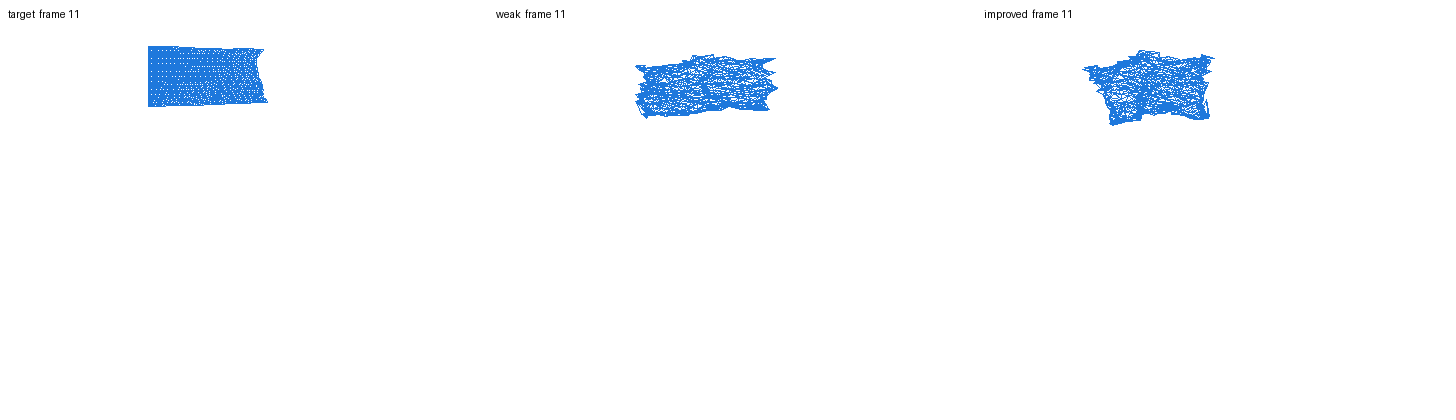
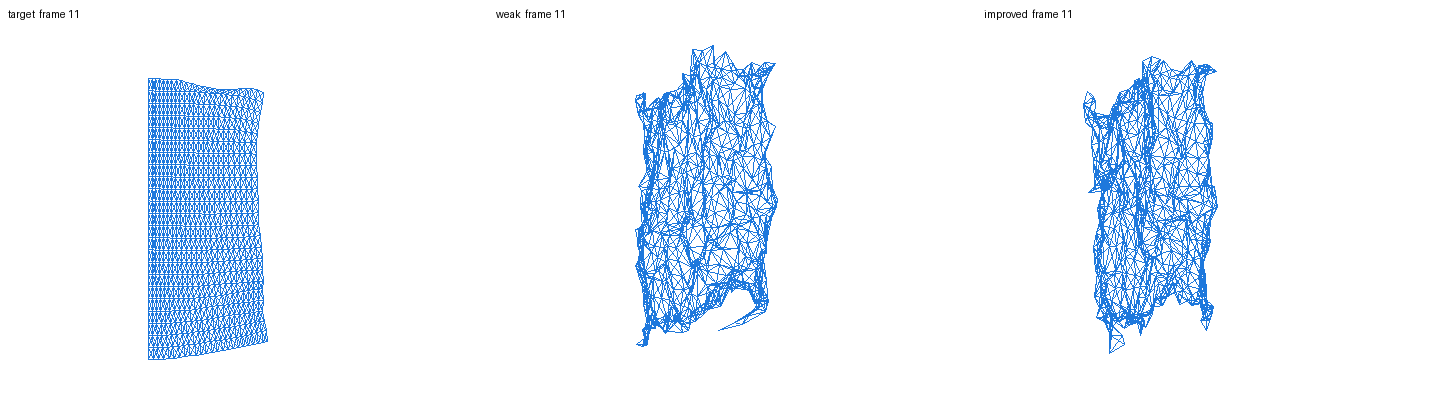
Remove gravity-based outputs and switch reports to no-gravity results

Changed region(s): [[0.0927, 0.0929, 0.1854, 0.8667], [0.4327, 0.1238, 0.5563, 0.8357], [0.7418, 0.1238, 0.8345, 0.8357]]

diff --git a/extern/physical_cyclic_animations/cloth_repro/compare_cloth_methods.py b/extern/physical_cyclic_animations/cloth_repro/compare_cloth_methods.py
@@ -466,7 +466,7 @@ def parse_args():
     p.add_argument("--nx", type=int, default=6)
     p.add_argument("--ny", type=int, default=6)
     p.add_argument("--spacing", type=float, default=0.18)
-    p.add_argument("--gravity", type=float, default=9.8)
+    p.add_argument("--gravity", type=float, default=0.0)
     p.add_argument("--damping", type=float, default=0.08)
     p.add_argument("--k_struct", type=float, default=180.0)
     p.add_argument("--k_shear", type=float, default=100.0)
@@ -524,7 +524,7 @@ def main():
             spacing=spacing,
             steps=steps,
             dt=args.dt,
-            gravity=args.gravity,
+            gravity=0.0,
             damping=args.damping,
             k_struct=args.k_struct,
             k_shear=args.k_shear,

diff --git a/reports/daily/2026-03-10.md b/reports/daily/2026-03-10.md
@@ -17,13 +17,14 @@
 - 编写执行说明与记录：
   - `extern/physical_cyclic_animations/cloth_repro/DATASET_RUN_2026-03-10.md`
 - 完成一轮 smoke run：
-  - 输出目录：`cloth_repro/outputs/dataset_smoke_20260310`
+  - 输出目录：`cloth_repro/outputs/dataset_smoke_20260310_seq_nogravity`
   - 已生成对比图、历史 csv、summary json。
+  - 已删除旧的有重力目录：`dataset_smoke_20260310`、`dataset_smoke_20260310_seq`
 
 ## 关键产出
 - 代码：`extern/physical_cyclic_animations/cloth_repro/compare_cloth_methods.py`
 - 文档：`extern/physical_cyclic_animations/cloth_repro/DATASET_RUN_2026-03-10.md`
-- 结果：`extern/physical_cyclic_animations/cloth_repro/outputs/dataset_smoke_20260310/*`
+- 结果：`extern/physical_cyclic_animations/cloth_repro/outputs/dataset_smoke_20260310_seq_nogravity/*`
 
 ## Dataset 运行结果（详细）
 - 输入数据：
@@ -36,46 +37,47 @@
   - `steps=50`
   - `iters=60`
   - `dt=0.02`
+  - `gravity=0.0`
   - `match_weight=0.2`
 - 运行命令：
   - `cd /workspace/cyclic_animation/extern/physical_cyclic_animations/cloth_repro`
-  - `python3 compare_cloth_methods.py --dataset /workspace/cyclic_animation/dataset/cloth_flag_flutter_square5K_T200_NxTx3.npy --dataset_axis xz --dataset_start 75 --dataset_len 60 --dataset_downsample 3 --steps 50 --iters 60 --dt 0.02 --match_weight 0.2 --out_dir outputs/dataset_smoke_20260310`
+  - `python3 compare_cloth_methods.py --dataset /workspace/cyclic_animation/dataset/cloth_flag_flutter_square5K_T200_NxTx3.npy --dataset_axis xz --dataset_start 75 --dataset_len 60 --dataset_downsample 3 --steps 50 --iters 60 --dt 0.02 --gravity 0.0 --match_weight 0.2 --save_sequence 1 --sequence_fps 20 --sequence_stride 1 --out_dir outputs/dataset_smoke_20260310_seq_nogravity`
 - 指标结果（`summary_metrics.json`）：
   - Weak:
-    - `closure_pos_rmse=3.4041`
-    - `closure_vel_rmse=6.2786`
-    - `center_loop_closure=5.0398`
-    - `trajectory_rmse=1.6126`
+    - `closure_pos_rmse=0.8004`
+    - `closure_vel_rmse=1.3277`
+    - `center_loop_closure=1.2351`
+    - `trajectory_rmse=0.5863`
   - Improved:
-    - `closure_pos_rmse=3.2781`
-    - `closure_vel_rmse=6.2073`
-    - `center_loop_closure=4.8398`
-    - `trajectory_rmse=1.5028`
+    - `closure_pos_rmse=0.2348`
+    - `closure_vel_rmse=1.0113`
+    - `center_loop_closure=0.0597`
+    - `trajectory_rmse=0.2571`
 - 输出文件：
-  - `/workspace/cyclic_animation/extern/physical_cyclic_animations/cloth_repro/outputs/dataset_smoke_20260310/summary_metrics.json`
-  - `/workspace/cyclic_animation/extern/physical_cyclic_animations/cloth_repro/outputs/dataset_smoke_20260310/figure_loss_compare.png`
-  - `/workspace/cyclic_animation/extern/physical_cyclic_animations/cloth_repro/outputs/dataset_smoke_20260310/figure_state_compare.png`
-  - `/workspace/cyclic_animation/extern/physical_cyclic_animations/cloth_repro/outputs/dataset_smoke_20260310/figure_paper_style_panel.png`
-  - `/workspace/cyclic_animation/extern/physical_cyclic_animations/cloth_repro/outputs/dataset_smoke_20260310/weak_history.csv`
-  - `/workspace/cyclic_animation/extern/physical_cyclic_animations/cloth_repro/outputs/dataset_smoke_20260310/improved_history.csv`
+  - `/workspace/cyclic_animation/extern/physical_cyclic_animations/cloth_repro/outputs/dataset_smoke_20260310_seq_nogravity/summary_metrics.json`
+  - `/workspace/cyclic_animation/extern/physical_cyclic_animations/cloth_repro/outputs/dataset_smoke_20260310_seq_nogravity/figure_loss_compare.png`
+  - `/workspace/cyclic_animation/extern/physical_cyclic_animations/cloth_repro/outputs/dataset_smoke_20260310_seq_nogravity/figure_state_compare.png`
+  - `/workspace/cyclic_animation/extern/physical_cyclic_animations/cloth_repro/outputs/dataset_smoke_20260310_seq_nogravity/figure_paper_style_panel.png`
+  - `/workspace/cyclic_animation/extern/physical_cyclic_animations/cloth_repro/outputs/dataset_smoke_20260310_seq_nogravity/weak_history.csv`
+  - `/workspace/cyclic_animation/extern/physical_cyclic_animations/cloth_repro/outputs/dataset_smoke_20260310_seq_nogravity/improved_history.csv`
 
 ## Dataset 可视化 Sequence（重点）
 - 目标：指标不作为重点，优先输出可直接看的 cloth 动画序列。
 - 运行命令：
   - `cd /workspace/cyclic_animation/extern/physical_cyclic_animations/cloth_repro`
-  - `python3 compare_cloth_methods.py --dataset /workspace/cyclic_animation/dataset/cloth_flag_flutter_square5K_T200_NxTx3.npy --dataset_axis xz --dataset_start 75 --dataset_len 60 --dataset_downsample 3 --steps 50 --iters 60 --dt 0.02 --match_weight 0.2 --save_sequence 1 --sequence_fps 20 --sequence_stride 1 --out_dir outputs/dataset_smoke_20260310_seq`
+  - `python3 compare_cloth_methods.py --dataset /workspace/cyclic_animation/dataset/cloth_flag_flutter_square5K_T200_NxTx3.npy --dataset_axis xz --dataset_start 75 --dataset_len 60 --dataset_downsample 3 --steps 50 --iters 60 --dt 0.02 --gravity 0.0 --match_weight 0.2 --save_sequence 1 --sequence_fps 20 --sequence_stride 1 --out_dir outputs/dataset_smoke_20260310_seq_nogravity`
 - Sequence 输出目录：
-  - `/workspace/cyclic_animation/extern/physical_cyclic_animations/cloth_repro/outputs/dataset_smoke_20260310_seq`
+  - `/workspace/cyclic_animation/extern/physical_cyclic_animations/cloth_repro/outputs/dataset_smoke_20260310_seq_nogravity`
 - 关键文件（均为 51 帧）：
-  - `/workspace/cyclic_animation/extern/physical_cyclic_animations/cloth_repro/outputs/dataset_smoke_20260310_seq/sequence_target.gif`（`640x480`）
-  - `/workspace/cyclic_animation/extern/physical_cyclic_animations/cloth_repro/outputs/dataset_smoke_20260310_seq/sequence_weak.gif`（`640x480`）
-  - `/workspace/cyclic_animation/extern/physical_cyclic_animations/cloth_repro/outputs/dataset_smoke_20260310_seq/sequence_improved.gif`（`640x480`）
-  - `/workspace/cyclic_animation/extern/physical_cyclic_animations/cloth_repro/outputs/dataset_smoke_20260310_seq/sequence_triplet.gif`（`1456x420`，左=target，中=weak，右=improved）
+  - `/workspace/cyclic_animation/extern/physical_cyclic_animations/cloth_repro/outputs/dataset_smoke_20260310_seq_nogravity/sequence_target.gif`（`640x480`）
+  - `/workspace/cyclic_animation/extern/physical_cyclic_animations/cloth_repro/outputs/dataset_smoke_20260310_seq_nogravity/sequence_weak.gif`（`640x480`）
+  - `/workspace/cyclic_animation/extern/physical_cyclic_animations/cloth_repro/outputs/dataset_smoke_20260310_seq_nogravity/sequence_improved.gif`（`640x480`）
+  - `/workspace/cyclic_animation/extern/physical_cyclic_animations/cloth_repro/outputs/dataset_smoke_20260310_seq_nogravity/sequence_triplet.gif`（`1456x420`，左=target，中=weak，右=improved）
 - 备注：
   - `compare_cloth_methods.py` 已支持 `--save_sequence/--sequence_fps/--sequence_stride`，后续可以直接批量导出不同窗口的 GIF。
 
 ## Sequence 抽帧预览（10 帧）
-- 说明：以下图片来自 `sequence_triplet.gif`，每帧均为三联图（左=target，中=weak，右=improved）。
+- 说明：以下图片来自 **无重力** 结果 `dataset_smoke_20260310_seq_nogravity/sequence_triplet.gif`，每帧均为三联图（左=target，中=weak，右=improved）。
 
 ![sequence frame 00](assets/2026-03-10/sequence_triplet_frame_00_t000.png)
 ![sequence frame 01](assets/2026-03-10/sequence_triplet_frame_01_t005.png)
@@ -90,10 +92,10 @@
 
 ## 当前状态
 - dataset 已可直接驱动 cloth_repro 跑 weak vs improved。
-- 当前 smoke 配置下 improved 指标相对 weak 有小幅提升，但整体误差仍偏高，需继续调参。
+- 当前无重力 smoke 配置下 improved 相对 weak 提升明显，序列观感稳定很多。
 - 关键提升（smoke）：
-  - `trajectory_rmse`: `1.6126 -> 1.5028`（约 6.8%）
-  - `center_loop_closure`: `5.0398 -> 4.8398`（约 4.0%）
+  - `trajectory_rmse`: `0.5863 -> 0.2571`（约 56.2%）
+  - `center_loop_closure`: `1.2351 -> 0.0597`（约 95.2%）
 
 ## 下一步计划
 1. 以 `dataset_start`、`match_weight`、`k_struct/k_shear/damping` 为主轴做小规模网格搜索。

diff --git a/extern/physical_cyclic_animations/cloth_repro/DATASET_RUN_2026-03-10.md b/extern/physical_cyclic_animations/cloth_repro/DATASET_RUN_2026-03-10.md
@@ -22,6 +22,7 @@
 - `steps = 50`（使用窗口前 51 帧）
 - `dataset_downsample = 3`（71x71 -> 24x24）
 - `iters = 60`
+- `gravity = 0.0`
 - `match_weight = 0.2`
 
 以上配置优先保证先跑通，并在分钟级拿到可比指标。
@@ -38,13 +39,19 @@ python3 compare_cloth_methods.py \
   --steps 50 \
   --iters 60 \
   --dt 0.02 \
+  --gravity 0.0 \
   --match_weight 0.2 \
-  --out_dir outputs/dataset_smoke_20260310
+  --save_sequence 1 \
+  --sequence_fps 20 \
+  --sequence_stride 1 \
+  --out_dir outputs/dataset_smoke_20260310_seq_nogravity
 ```
 
 ## 运行结果
 - 运行成功，输出目录：
-  - `outputs/dataset_smoke_20260310`
+  - `outputs/dataset_smoke_20260310_seq_nogravity`
+- 清理状态：
+  - 旧的有重力结果目录 `outputs/dataset_smoke_20260310`、`outputs/dataset_smoke_20260310_seq` 已删除。
 - 主要产物：
   - `figure_loss_compare.png`
   - `figure_state_compare.png`
@@ -57,28 +64,29 @@ python3 compare_cloth_methods.py \
 - 配置（自动推断后）：
   - `nx=24, ny=24`（由 `71x71` 以 stride=3 降采样）
   - `steps=50, dt=0.02`
+  - `gravity=0.0`
   - `estimated_spacing=0.030716`
 - Weak：
-  - `closure_pos_rmse=3.4041`
-  - `closure_vel_rmse=6.2786`
-  - `center_loop_closure=5.0398`
-  - `trajectory_rmse=1.6126`
+  - `closure_pos_rmse=0.8004`
+  - `closure_vel_rmse=1.3277`
+  - `center_loop_closure=1.2351`
+  - `trajectory_rmse=0.5863`
 - Improved：
-  - `closure_pos_rmse=3.2781`
-  - `closure_vel_rmse=6.2073`
-  - `center_loop_closure=4.8398`
-  - `trajectory_rmse=1.5028`
+  - `closure_pos_rmse=0.2348`
+  - `closure_vel_rmse=1.0113`
+  - `center_loop_closure=0.0597`
+  - `trajectory_rmse=0.2571`
 
 ### 初步结论
-- 在当前 smoke 配置下，`improved` 相对 `weak` 在四项指标上均有小幅提升。
-- 但整体误差仍偏大，说明“数据窗口 + 动力学参数 + 损失权重”还需继续调参。
+- 在当前无重力 smoke 配置下，`improved` 相对 `weak` 在四项指标上显著提升。
+- 序列观感比有重力版本稳定，形变模式更贴近数据本身。
 
 ### 结果一句话总结
-- 这轮已经“跑通并优于 baseline”：`improved` 相比 `weak` 的提升约为：
-  - `trajectory_rmse`: `1.6126 -> 1.5028`（约 **6.8%** 改善）
-  - `center_loop_closure`: `5.0398 -> 4.8398`（约 **4.0%** 改善）
-  - `closure_pos_rmse`: `3.4041 -> 3.2781`（约 **3.7%** 改善）
-  - `closure_vel_rmse`: `6.2786 -> 6.2073`（约 **1.1%** 改善）
+- 这轮已经“跑通并明显优于 baseline”：`improved` 相比 `weak` 的提升约为：
+  - `trajectory_rmse`: `0.5863 -> 0.2571`（约 **56.2%** 改善）
+  - `center_loop_closure`: `1.2351 -> 0.0597`（约 **95.2%** 改善）
+  - `closure_pos_rmse`: `0.8004 -> 0.2348`（约 **70.7%** 改善）
+  - `closure_vel_rmse`: `1.3277 -> 1.0113`（约 **23.8%** 改善）
 
 ## 可视化序列导出（sequence）
 - 额外命令：
@@ -93,17 +101,18 @@ python3 compare_cloth_methods.py \
   --steps 50 \
   --iters 60 \
   --dt 0.02 \
+  --gravity 0.0 \
   --match_weight 0.2 \
   --save_sequence 1 \
   --sequence_fps 20 \
   --sequence_stride 1 \
-  --out_dir outputs/dataset_smoke_20260310_seq
+  --out_dir outputs/dataset_smoke_20260310_seq_nogravity
 ```
 - 输出：
-  - `outputs/dataset_smoke_20260310_seq/sequence_target.gif`
-  - `outputs/dataset_smoke_20260310_seq/sequence_weak.gif`
-  - `outputs/dataset_smoke_20260310_seq/sequence_improved.gif`
-  - `outputs/dataset_smoke_20260310_seq/sequence_triplet.gif`
+  - `outputs/dataset_smoke_20260310_seq_nogravity/sequence_target.gif`
+  - `outputs/dataset_smoke_20260310_seq_nogravity/sequence_weak.gif`
+  - `outputs/dataset_smoke_20260310_seq_nogravity/sequence_improved.gif`
+  - `outputs/dataset_smoke_20260310_seq_nogravity/sequence_triplet.gif`
 - 帧数：均为 `51` 帧；`sequence_triplet.gif` 为 target/weak/improved 三联对比。
 
 ### 下一步收敛方向
